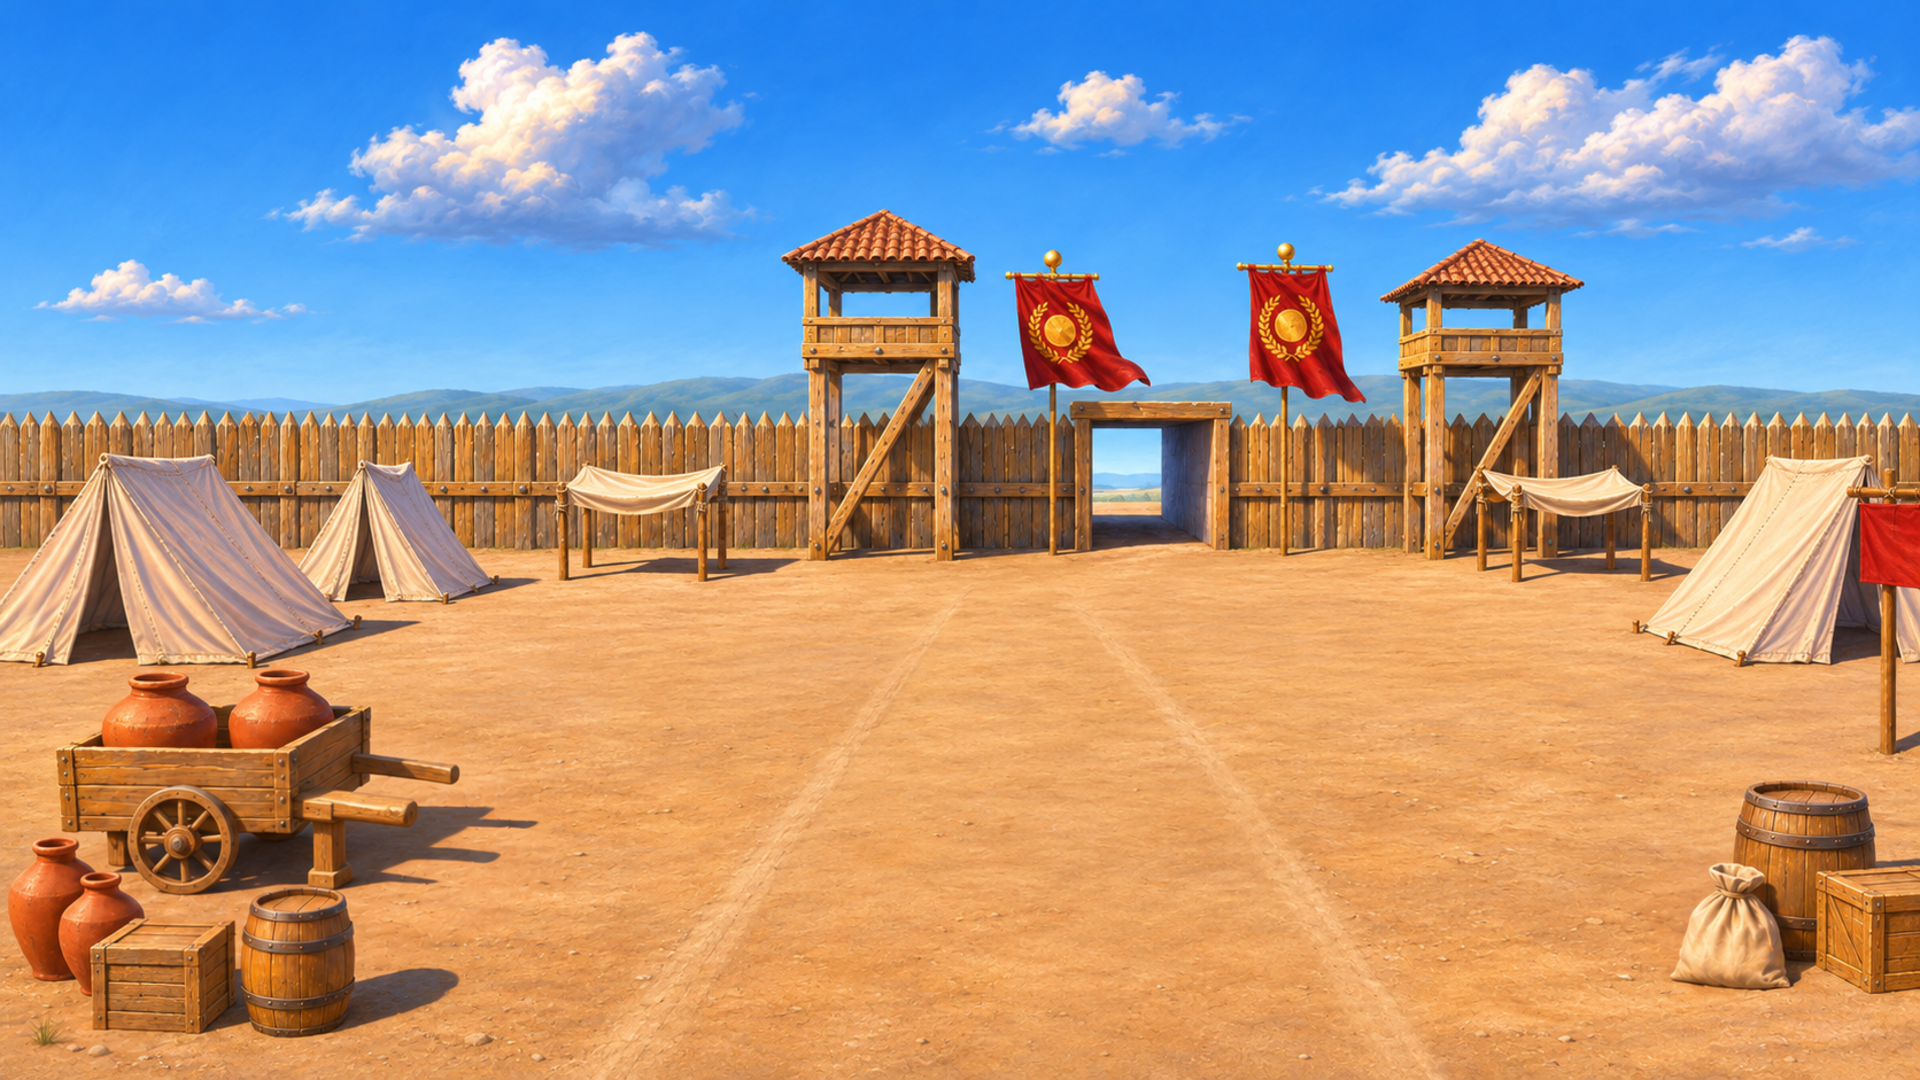
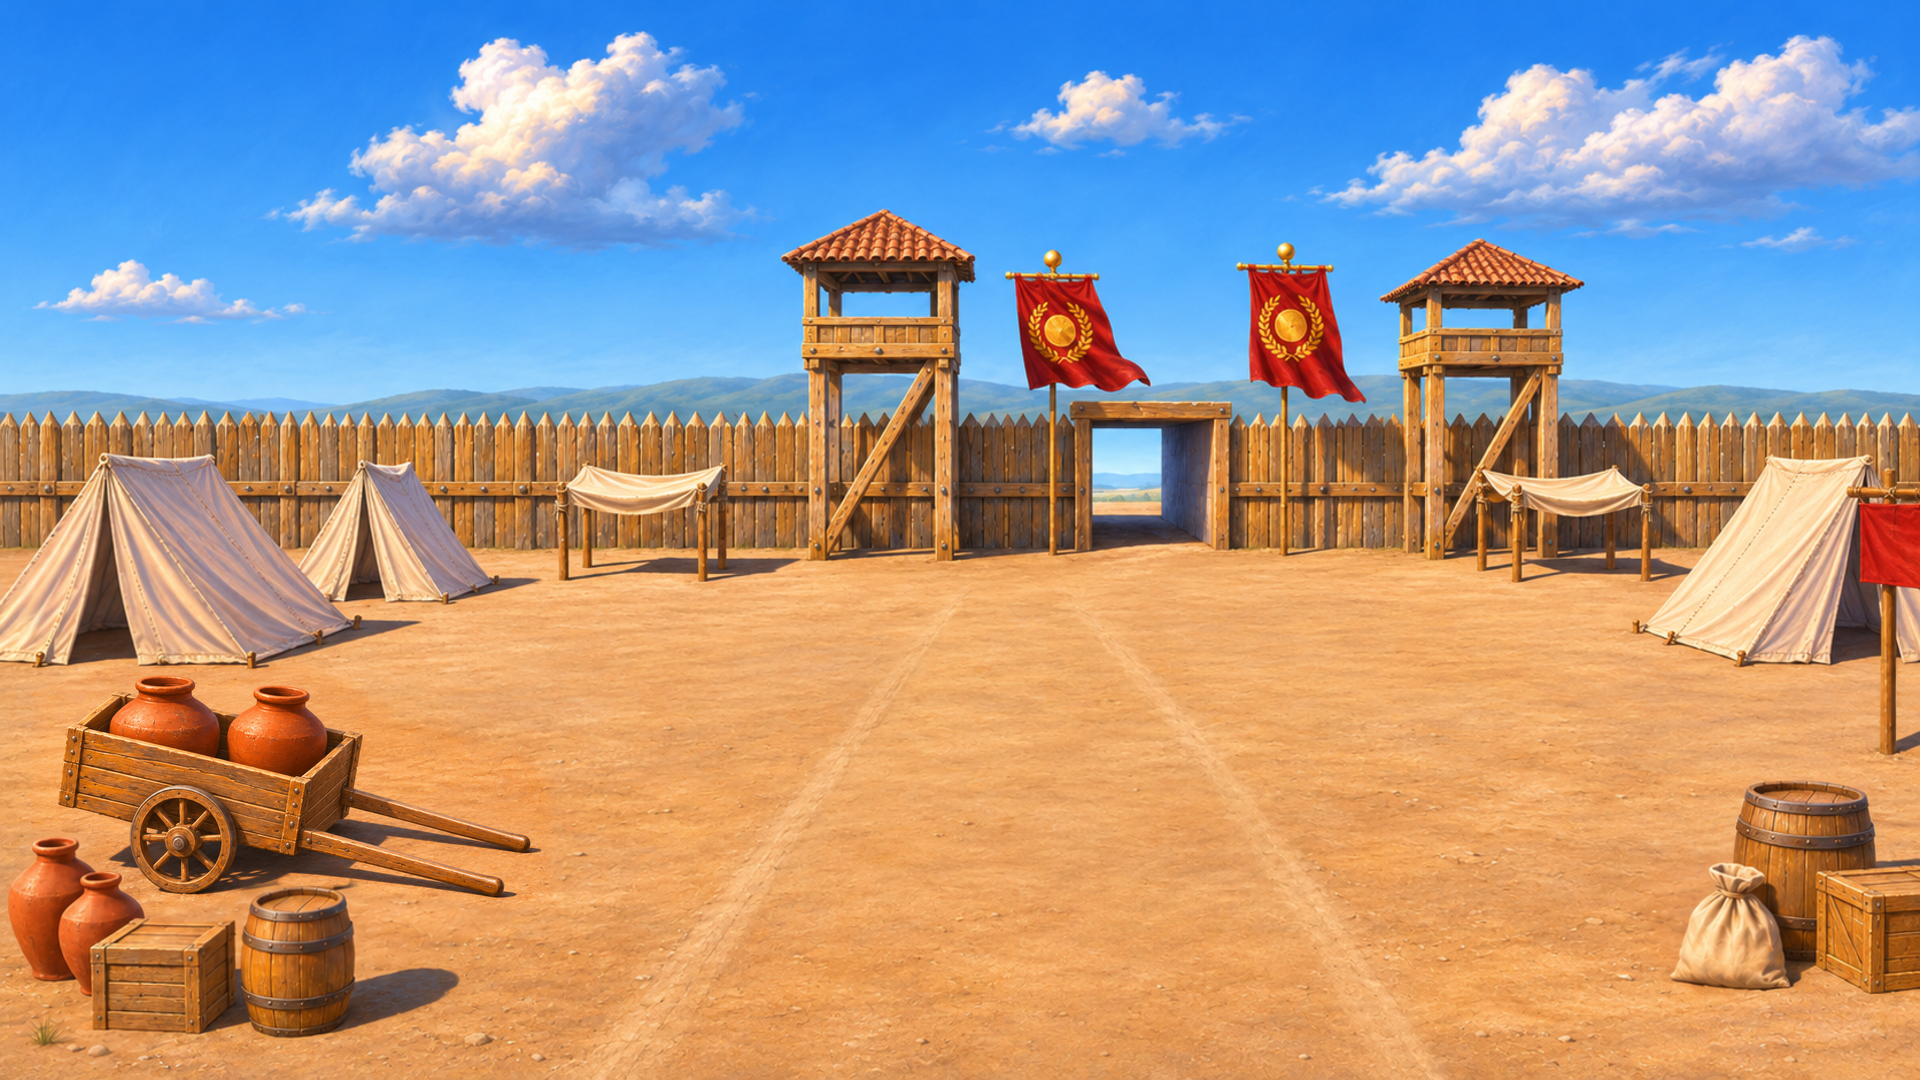
修正集市货车双辕与停放姿态，并增加无上下文盲审

Changed region(s): [[0.0312, 0.6111, 0.2812, 0.8556]]

diff --git a/docs/plans/background-repaint/market-process/final-review.md b/docs/plans/background-repaint/market-process/final-review.md
@@ -1,6 +1,6 @@
 # 步骤 9 · 集市终审
 
-**通过，94/100。** 核对了场景说明、步骤 3 的结构、步骤 5 的灰阶、步骤 6 的固有色、步骤 7 的材质和步骤 8 的细节。先缩小看两塔、门洞、左右货组和中央通行区，再按原像素检查左车货堆、右侧桶箱、营门和双旗、左右帐群及棚脚。
+**首次终审记录，94/100。** 该次评分对应货车修订前的版本。 核对了场景说明、步骤 3 的结构、步骤 5 的灰阶、步骤 6 的固有色、步骤 7 的材质和步骤 8 的细节。先缩小看两塔、门洞、左右货组和中央通行区，再按原像素检查左车货堆、右侧桶箱、营门和双旗、左右帐群及棚脚。
 
 | 审查项 | 得分 | 图上依据 |
 | --- | --- | --- |
@@ -12,4 +12,4 @@
 
 木料铆钉和旗面饰纹较细密，帐布脊线也有软料自然的弯垂。以目前画幅观看，两处均未打断场景辨识。UI 留白依据背景图和集市页布局说明审查，本轮未做实机叠层走查。
 
-获准的步骤 8 原尺寸文件保存为 `09-final.png`。如需重做细节，可以从 `07-materials.png` 重新起稿。
+货车已按用户反馈修订，新增审查见[无上下文盲审](blind-review.md)。最新步骤 8 原尺寸文件保存为 `09-final.png`。如需重做细节，可以从 `07-materials.png` 重新起稿。

diff --git a/docs/plans/background-repaint/market-process/blind-review.md b/docs/plans/background-repaint/market-process/blind-review.md
@@ -1,0 +1,12 @@
+# 集市成品无上下文盲审
+
+两位审图者分别在不继承本次对话的独立上下文中看一张图，只收到图片路径和同一问题：“能否确认这张图为AI生成的？有哪些不符合常理的纰漏”。两人都查看了全图和原尺寸局部。
+
+| 审查对象 | 对生成来源的判断 | 画面观察 |
+| --- | --- | --- |
+| 修订前成品 | 单凭成图无法确认 | 审图者辨认出车轮、双把和支脚，未主动指出用户发现的把手形制差异。中央门洞明显深于两侧单排栅栏，未交代背后的连接；瞭望台的梯子可能设在背面。 |
+| 货车修订稿 | 单凭成图无法确认 | 两根车辕从车斗两侧伸出，方向一致，两个辕头均落地，近轮轮毂、轮辐连续。未发现可确定的物理矛盾。中央门洞与薄栅之间的厚度过渡仍不直观，墙后可能另有结构。 |
+
+用户指出的两项问题经局部对照确认，已去除柱形支脚，以车轮和两根落地车辕支承车体，统一两侧握把造型。两位盲审者都提到营门，现将其作为尚有歧义的结构记录。此次修改限于货车及紧邻的地面和投影。
+
+[货车对照，左为修前、右为修后](cart-comparison.jpg)

diff --git a/docs/plans/background-repaint/workflow.md b/docs/plans/background-repaint/workflow.md
@@ -15,3 +15,7 @@
 | 9　终审 | 查看全幅、缩略图及原尺寸局部。沿物件轮廓检查是否存在均匀描边，检验相邻色面、反光和投影能否独立塑形，并复核透视、接地、遮挡及画面的实际用途。 | 通过的独立成品与终审结论 |
 
 [集市实例](market-process/01-brief.md)
+
+## 终审增加无上下文盲审
+
+成品导出后，新建一个不继承对话历史的子 agent，只提供成图。请它先看全幅、再看原尺寸局部，独立回答：“能否确认这张图为AI生成的？有哪些不符合常理的纰漏”。记录其原始判断和位置，把可验证的错误与可能由遮挡、视角或画外结构解释的疑点区分开来。来源判断不计入美术分数。发现实质错误时退回相应阶段，修订后交给另一位未看过原图和旧评语的盲审者。

diff --git a/docs/plans/background-repaint/market-process/detail-review.md b/docs/plans/background-repaint/market-process/detail-review.md
@@ -11,4 +11,4 @@
 
 ## 步骤 8 · 三级细化，通过
 
-货车停放时通过车轮和辕下支腿承重。补出支腿与辕的连接、脚垫、轮毂轴帽及贴地阴影。帐布的拉褶集中在系绳受力处，袋口的折面说明扎紧方式；少量沙砾与一簇草放在左侧路缘。远山、云、岗楼、营门及中央沙地沿用上一步的像素，保留读图层次。
+货车的首版辕头截面不一致，辕下另设的柱形支脚也容易被误读。修订时回到步骤 7 的货车局部，将两根车辕统一为同形木辕及圆头握把，车斗随轮轴向前倾，两个辕头分别接地。帐布的拉褶集中在系绳受力处，袋口的折面说明扎紧方式；少量沙砾与一簇草放在左侧路缘。远山、云、岗楼、营门及中央沙地沿用上一步的像素，保留读图层次。
